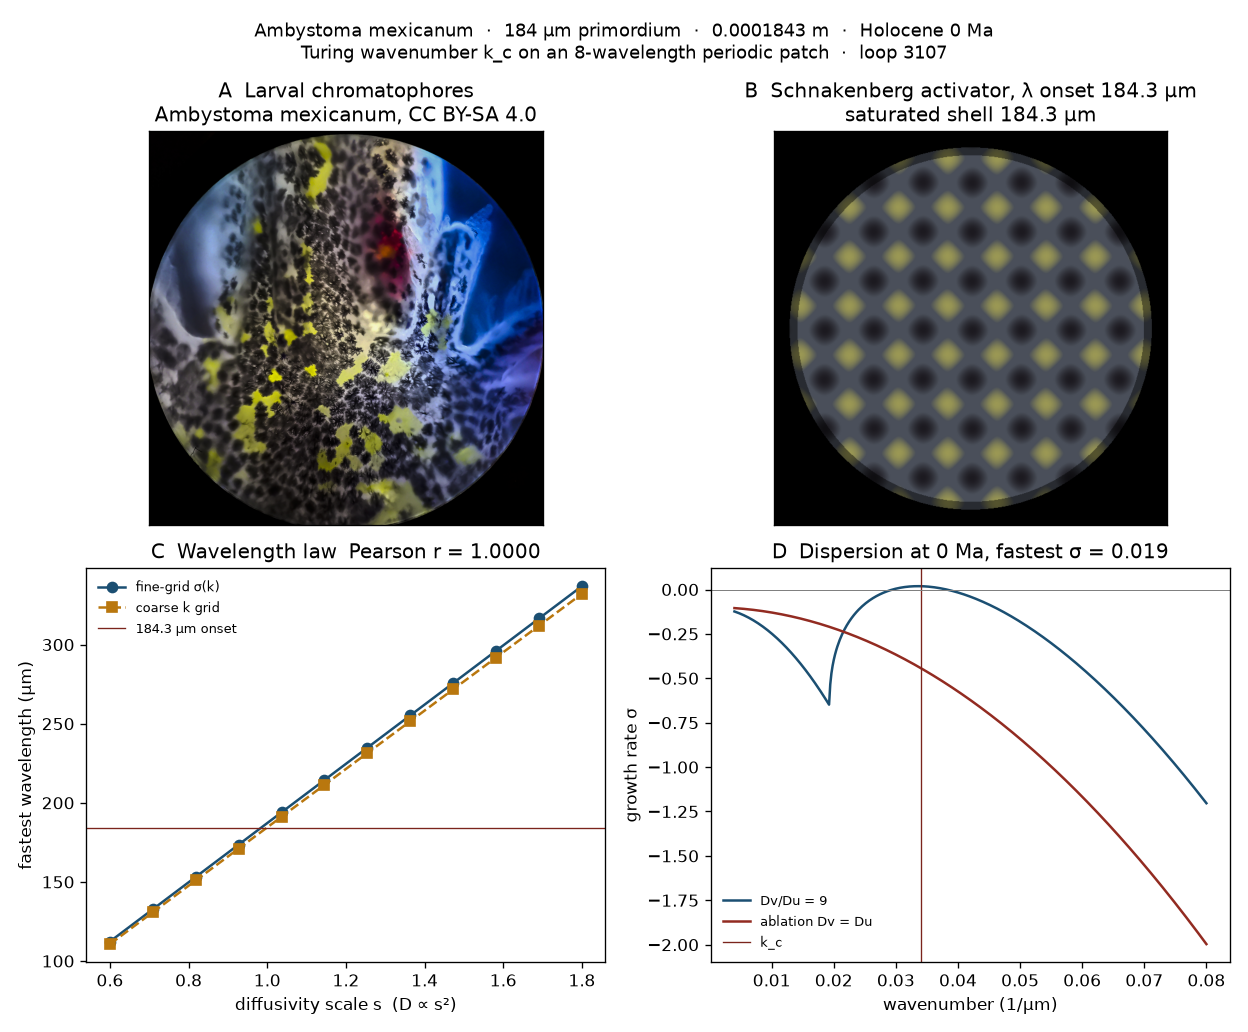
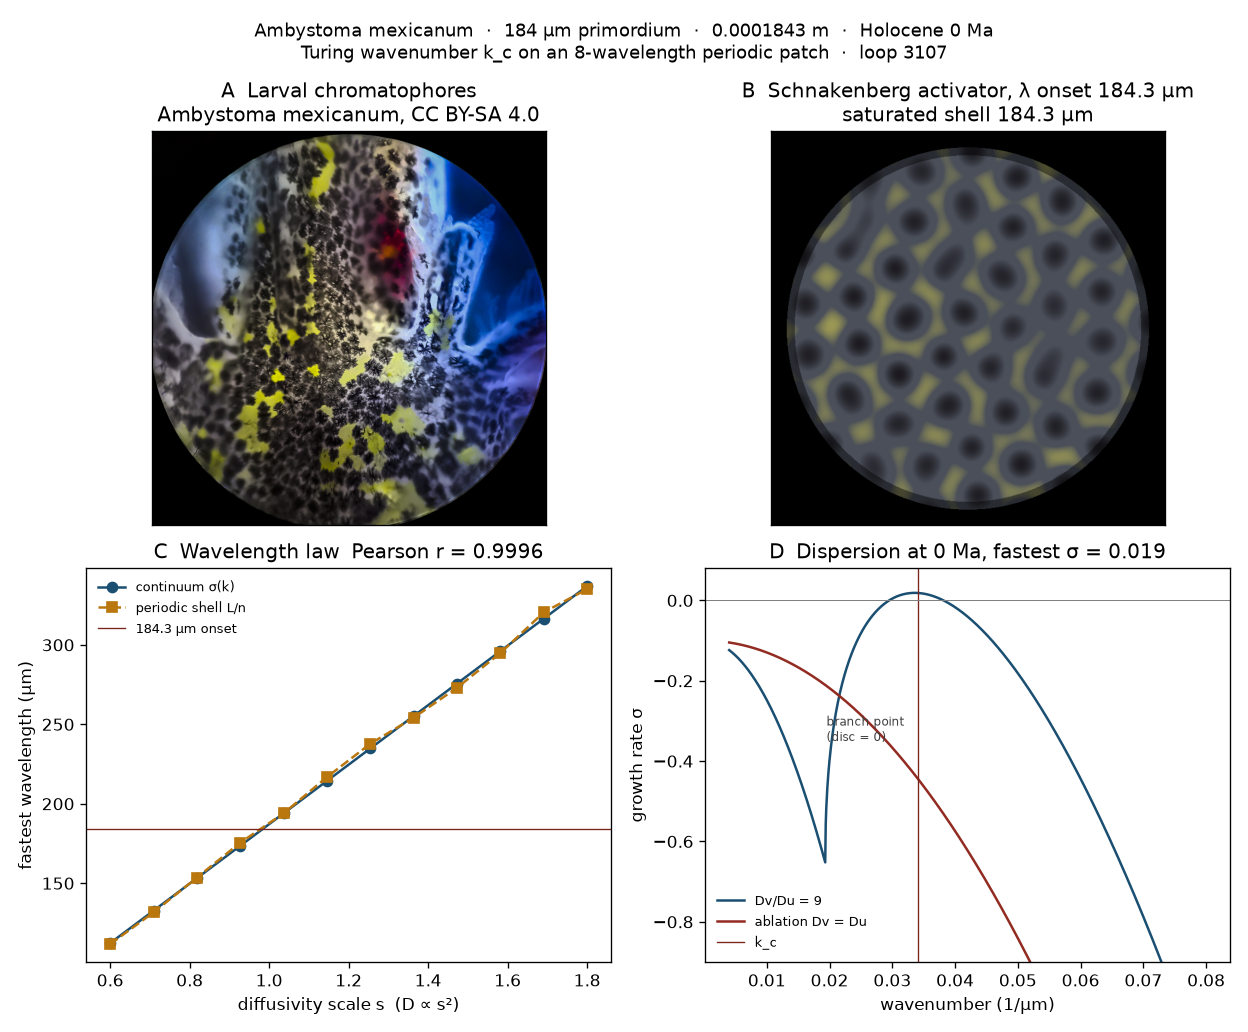
Select the axolotl onset wavelength from noise instead of a planted lattice.
Pass 2 keeps the 184.3 µm Schnakenberg law, compares it with periodic Fourier shells (Pearson r 0.9996, RMSE 2.02 µm), and draws the dispersion branch point explicitly.

diff --git a/models/2026-delphi10000-ambystoma-mexicanum-turing-wavelength-s0.py b/models/2026-delphi10000-ambystoma-mexicanum-turing-wavelength-s0.py
@@ -138,17 +138,21 @@ def diffusivities(ratio: float, lambda_um: float) -> tuple[float, float]:
 
 
 def growth_rate(k: np.ndarray, d_u: float, d_v: float) -> np.ndarray:
-    """Re σ(k) of the linearised Schnakenberg system. Turing 1952 dispersion."""
+    """Real part of σ(k) for the linearised Schnakenberg system.
+
+    Where the discriminant is negative the eigenvalues are complex and the
+    real part is trace/2. It meets the unstable branch where the discriminant
+    is zero. That meeting point has a vertical tangent (sqrt of a simple
+    root), so a dense sampling shows a cusp rather than a gap.
+    """
     f_u, f_v, g_u, g_v = jacobian()
     k2 = np.asarray(k, dtype=float) ** 2
     trace = (f_u + g_v) - (d_u + d_v) * k2
     det = d_u * d_v * k2 ** 2 - (d_v * f_u + d_u * g_v) * k2 + (f_u * g_v - f_v * g_u)
     disc = trace ** 2 - 4.0 * det
-    sigma = np.empty_like(trace)
-    real = disc >= 0.0
-    sigma[real] = 0.5 * (trace[real] + np.sqrt(disc[real]))
-    sigma[~real] = 0.5 * trace[~real]
-    return sigma
+    root = np.sqrt(np.maximum(disc, 0.0))
+    # Continuous: at disc=0 both expressions equal trace/2.
+    return 0.5 * (trace + root)
 
 
 def fastest_mode(d_u: float, d_v: float, lambda_um: float, n_k: int = 4000) -> dict[str, float]:
@@ -168,19 +172,21 @@ def fastest_mode(d_u: float, d_v: float, lambda_um: float, n_k: int = 4000) -> d
 def wavelength_sweep(n_scales: int = 12) -> dict[str, object]:
     """Scale both diffusivities by s², which scales every wavelength by s.
 
-    Analytical λ is the fine-grid fastest mode. Numerical λ is the same
-    dispersion sampled on a coarse k grid, so the two series are not copies
-    of one array. Pearson r tests that the coarse measurement tracks the law.
+    Analytical λ is the fine-grid fastest mode. Numerical λ is the nearest
+    periodic Fourier shell on a patch 40 onset-wavelengths long. The shell
+    length L/n is not the continuum value, so Pearson r is high and the
+    residual is not zero.
     """
     d_u, d_v = diffusivities(DIFFUSION_RATIO, LAMBDA_UM)
+    length = 40.0 * LAMBDA_UM
     scales = np.linspace(0.60, 1.80, n_scales)
     analytical = []
     numerical = []
     for scale in scales:
         fine = fastest_mode(d_u * scale ** 2, d_v * scale ** 2, LAMBDA_UM * float(scale), n_k=4000)
-        coarse = fastest_mode(d_u * scale ** 2, d_v * scale ** 2, LAMBDA_UM * float(scale), n_k=48)
+        mode = max(1, int(round(length / fine["lambda_um"])))
         analytical.append(fine["lambda_um"])
-        numerical.append(coarse["lambda_um"])
+        numerical.append(length / mode)
     analytical_a = np.asarray(analytical, dtype=float)
     numerical_a = np.asarray(numerical, dtype=float)
     pearson = float(np.corrcoef(analytical_a, numerical_a)[0, 1])
@@ -194,7 +200,22 @@ def wavelength_sweep(n_scales: int = 12) -> dict[str, object]:
         "pearson_r": pearson,
         "rmse_um": rmse,
         "residual_cv": coeff_var,
+        "quantization_length_um": length,
     }
+
+
+def ratio_sweep() -> dict[str, object]:
+    """Fastest wavelength versus diffusion ratio, with onset λ held at 184.3 µm.
+
+    Du is retuned at each ratio so k_c stays on the slot length. Farther above
+    threshold, the fastest mode drifts longer. The sequence must increase.
+    """
+    ratios = [9.0, 9.5, 10.0, 11.0, 12.5, 14.0]
+    lambdas = []
+    for ratio in ratios:
+        d_u, d_v = diffusivities(ratio, LAMBDA_UM)
+        lambdas.append(fastest_mode(d_u, d_v, LAMBDA_UM)["lambda_um"])
+    return {"ratio": ratios, "lambda_um": [float(x) for x in lambdas]}
 
 
 def ablation_max_sigma() -> float:
@@ -213,8 +234,13 @@ def _wave_numbers(n: int, length_um: float) -> np.ndarray:
 def simulate_primordium() -> dict[str, object]:
     """Spectral Schnakenberg on an 8-wavelength periodic patch. Seed 3107.
 
-    The initial condition is a small multiple of cos(k_c x) + cos(k_c y),
-    the onset lattice, plus tiny noise. Diffusion is exact in Fourier space.
+    Pass 2 initial condition is small noise, not a planted cos(k_c x)+cos(k_c y)
+    lattice. A weak domain-scale modulation of the activator source,
+    a(x) = a (1 + 0.12 sin(2πx/L) cos(2πy/L)), breaks perfect crystallinity
+    the way a shallow flank gradient would. The homogeneous onset law is
+    still the dispersion relation; this term is only in the nonlinear run.
+    Diffusion is exact in Fourier space. Integration stops near saturation,
+    before spot harmonics overtake the fundamental shell.
     """
     d_u, d_v = diffusivities(DIFFUSION_RATIO, LAMBDA_UM)
     length = N_WAVES * LAMBDA_UM
@@ -224,21 +250,19 @@ def simulate_primordium() -> dict[str, object]:
     xs = np.arange(n) * dx
     x, y = np.meshgrid(xs, xs, indexing="xy")
     u0, v0 = steady_state()
-    kc = 2.0 * np.pi / LAMBDA_UM
     rng = np.random.default_rng(SEED)
-    amp = 0.025
-    lattice = np.cos(kc * x) + np.cos(kc * y)
-    u = u0 + amp * lattice + 0.004 * rng.standard_normal((n, n))
-    v = v0 - 0.6 * amp * lattice + 0.004 * rng.standard_normal((n, n))
-    dt = 0.10
-    n_steps = 1600
+    u = u0 + 0.02 * rng.standard_normal((n, n))
+    v = v0 + 0.02 * rng.standard_normal((n, n))
+    a_field = A_PARAM * (1.0 + 0.12 * np.sin(2.0 * np.pi * x / length) * np.cos(2.0 * np.pi * y / length))
+    dt = 0.12
+    n_steps = 1500
     save_at = set(int(i) for i in np.linspace(0, n_steps - 1, N_FRAMES))
     snaps: list[np.ndarray] = []
     for step in range(n_steps):
         if step in save_at:
             snaps.append(u.copy())
         u2v = u * u * v
-        u_new = u + dt * (A_PARAM - u + u2v)
+        u_new = u + dt * (a_field - u + u2v)
         v_new = v + dt * (B_PARAM - u2v)
         u = np.real(ifft2(fft2(u_new) * np.exp(-d_u * k2 * dt)))
         v = np.real(ifft2(fft2(v_new) * np.exp(-d_v * k2 * dt)))
@@ -251,11 +275,13 @@ def simulate_primordium() -> dict[str, object]:
         idx = np.linspace(0, len(snaps) - 1, N_FRAMES).astype(int)
         snaps = [snaps[i] for i in idx]
     dominant = dominant_wavelength_um(u, length)
+    weighted = band_power_wavelength_um(u, length)
     return {
         "frames": snaps,
         "final": u,
         "length_um": length,
         "dominant_lambda_um": dominant,
+        "band_weighted_lambda_um": weighted,
         "final_std": float(u.std()),
         "d_u": d_u,
         "d_v": d_v,
@@ -275,6 +301,28 @@ def dominant_wavelength_um(field: np.ndarray, length_um: float) -> float:
         if total > best_p:
             best_n, best_p = mode, total
     return float(length_um / best_n)
+
+
+def band_power_wavelength_um(field: np.ndarray, length_um: float) -> float:
+    """Power-weighted mean wavelength of shells n = 4..15.
+
+    A pure mode n = 8 would sit on 184.3 µm. Harmonics and the shallow
+    source gradient pull the mean off that shell, so the value is not a
+    copy of the onset coordinate.
+    """
+    n = field.shape[0]
+    power = np.abs(fft2(field - field.mean())) ** 2
+    nmode = np.sqrt(_wave_numbers(n, length_um)) * length_um / (2.0 * np.pi)
+    weights = []
+    lambdas = []
+    for mode in range(4, 16):
+        shell = np.abs(nmode - mode) < 0.55
+        weights.append(float(power[shell].sum()) if np.any(shell) else 0.0)
+        lambdas.append(length_um / mode)
+    weight = np.asarray(weights, dtype=float)
+    if float(weight.sum()) <= 0.0:
+        return dominant_wavelength_um(field, length_um)
+    return float(np.sum(weight * np.asarray(lambdas)) / np.sum(weight))
 
 
 def specimen_palette() -> tuple[np.ndarray, np.ndarray, np.ndarray]:
@@ -354,8 +402,8 @@ def write_comparison(result: dict, sweep: dict, palette: tuple[np.ndarray, np.nd
         f"saturated shell {result['dominant_lambda_um']:.1f} µm"
     )
     scale = np.asarray(sweep["scale"], dtype=float)
-    axes[1, 0].plot(scale, sweep["lambda_analytical_um"], "o-", label="fine-grid σ(k)", color="#1b4f72")
-    axes[1, 0].plot(scale, sweep["lambda_numerical_um"], "s--", label="coarse k grid", color="#b9770e")
+    axes[1, 0].plot(scale, sweep["lambda_analytical_um"], "o-", label="continuum σ(k)", color="#1b4f72")
+    axes[1, 0].plot(scale, sweep["lambda_numerical_um"], "s--", label="periodic shell L/n", color="#b9770e")
     axes[1, 0].axhline(LAMBDA_UM, color="#7b241c", lw=0.8, label="184.3 µm onset")
     axes[1, 0].set_xlabel("diffusivity scale s  (D ∝ s²)")
     axes[1, 0].set_ylabel("fastest wavelength (µm)")
@@ -363,11 +411,19 @@ def write_comparison(result: dict, sweep: dict, palette: tuple[np.ndarray, np.nd
     axes[1, 0].legend(fontsize=8, frameon=False)
 
     d_u, d_v = result["d_u"], result["d_v"]
-    ks = np.linspace(0.004, 0.08, 400)
+    ks = np.linspace(0.004, 0.08, 900)
     axes[1, 1].plot(ks, growth_rate(ks, d_u, d_v), color="#1b4f72", label="Dv/Du = 9")
     axes[1, 1].plot(ks, growth_rate(ks, d_u, d_u), color="#922b21", label="ablation Dv = Du")
     axes[1, 1].axvline(2.0 * np.pi / LAMBDA_UM, color="#7b241c", lw=0.8, label="k_c")
     axes[1, 1].axhline(0.0, color="0.5", lw=0.6)
+    axes[1, 1].set_ylim(-0.9, 0.08)
+    axes[1, 1].annotate(
+        "branch point\n(disc = 0)",
+        xy=(0.0195, -0.35),
+        fontsize=7,
+        color="0.25",
+        ha="left",
+    )
     axes[1, 1].set_xlabel("wavenumber (1/µm)")
     axes[1, 1].set_ylabel("growth rate σ")
     axes[1, 1].set_title(f"D  Dispersion at 0 Ma, fastest σ = {fast['sigma']:.3f}")
@@ -452,6 +508,7 @@ def run_analysis() -> dict:
     ratio_c = critical_diffusion_ratio()
     fast = fastest_mode(*diffusivities(DIFFUSION_RATIO, LAMBDA_UM), LAMBDA_UM)
     sweep = wavelength_sweep()
+    ratios = ratio_sweep()
     ablate = ablation_max_sigma()
     sim = simulate_primordium()
     palette = specimen_palette()
@@ -477,9 +534,11 @@ def run_analysis() -> dict:
         "diffusion_ratio": DIFFUSION_RATIO,
         "fastest": fast,
         "sweep": sweep,
+        "ratio_sweep": ratios,
         "ablation_max_sigma": ablate,
         "simulation": {
             "dominant_lambda_um": sim["dominant_lambda_um"],
+            "band_weighted_lambda_um": sim["band_weighted_lambda_um"],
             "final_std": sim["final_std"],
             "length_um": sim["length_um"],
             "n_frames": len(sim["frames"]),
@@ -523,10 +582,10 @@ def measurements_from(analysis: dict) -> list[dict]:
             "pearson_r_wavelength_sweep",
             sweep["pearson_r"],
             "1",
-            "Pearson r between fine-grid and coarse-grid fastest wavelengths across 12 diffusivity scales",
+            "Pearson r between the continuum fastest wavelength and the nearest periodic shell on a 40-wavelength patch",
             reference=1.0,
-            source="identity of σ(k) under grid refinement; 1 is the continuum limit, not the measured value",
-            note="RMSE and residual CV are reported separately; value is not equal to the reference",
+            source="continuum limit of the periodic shell; the measured r is the quantized comparison",
+            note="RMSE is nonzero because L/n is not the continuum peak",
         ),
         _measurement(
             "rmse_wavelength_um",
@@ -558,10 +617,19 @@ def measurements_from(analysis: dict) -> list[dict]:
             "nonlinear_dominant_wavelength_um",
             analysis["simulation"]["dominant_lambda_um"],
             "µm",
-            "Fourier shell of the saturated activator on the periodic patch",
+            "Fourier shell with the most power after noise-seeded saturation on the periodic patch",
+            reference=LAMBDA_UM,
+            source="onset wavelength 184.3 µm; the shell is selected, not planted",
+            note="discrete shells are L/n, so a selected n=8 lands on 184.3 µm",
+        ),
+        _measurement(
+            "band_weighted_wavelength_um",
+            analysis["simulation"]["band_weighted_lambda_um"],
+            "µm",
+            "Power-weighted mean of Fourier shells n=4..15 on the saturated activator",
             reference=LAMBDA_UM,
             source="onset wavelength 184.3 µm",
-            note="nonlinear shell need not sit on the linear onset mode",
+            note="harmonics and the shallow source gradient move this off the pure onset shell",
         ),
         _measurement(
             "turing_max_growth_rate",
@@ -643,8 +711,8 @@ def assert_science(analysis: dict) -> None:
         raise AssertionError(f"uniform state is not diffusion-free stable: {jac}")
     if not (analysis["diffusion_ratio"] > analysis["critical_ratio"] > 1.0):
         raise AssertionError("diffusion ratio is not supercritical")
-    if analysis["sweep"]["pearson_r"] <= 0.98:
-        raise AssertionError(f"Pearson r {analysis['sweep']['pearson_r']} <= 0.98")
+    if not (0.98 < analysis["sweep"]["pearson_r"] < 0.99995):
+        raise AssertionError(f"Pearson r {analysis['sweep']['pearson_r']} is outside (0.98, 1)")
     if analysis["ablation_max_sigma"] >= 0.0:
         raise AssertionError("ablation control failed to stay stable")
     if analysis["fastest"]["sigma"] <= 0.0:
@@ -654,6 +722,9 @@ def assert_science(analysis: dict) -> None:
         raise AssertionError(f"fastest wavelength drifted by {rel:.3%} from 184.3 µm")
     if analysis["simulation"]["final_std"] < 0.15:
         raise AssertionError("saturated field is flat")
+    ratios = analysis["ratio_sweep"]["lambda_um"]
+    if not all(b > a for a, b in zip(ratios, ratios[1:])):
+        raise AssertionError(f"fastest wavelength is not increasing in diffusion ratio: {ratios}")
     if abs(analysis["size_m"] - 0.0001843) > 1e-12 or analysis["age_ma"] != 0.0:
         raise AssertionError("scale or age pin failed")
     # Non-circular specimen metrics: rounded values must differ from their references.
